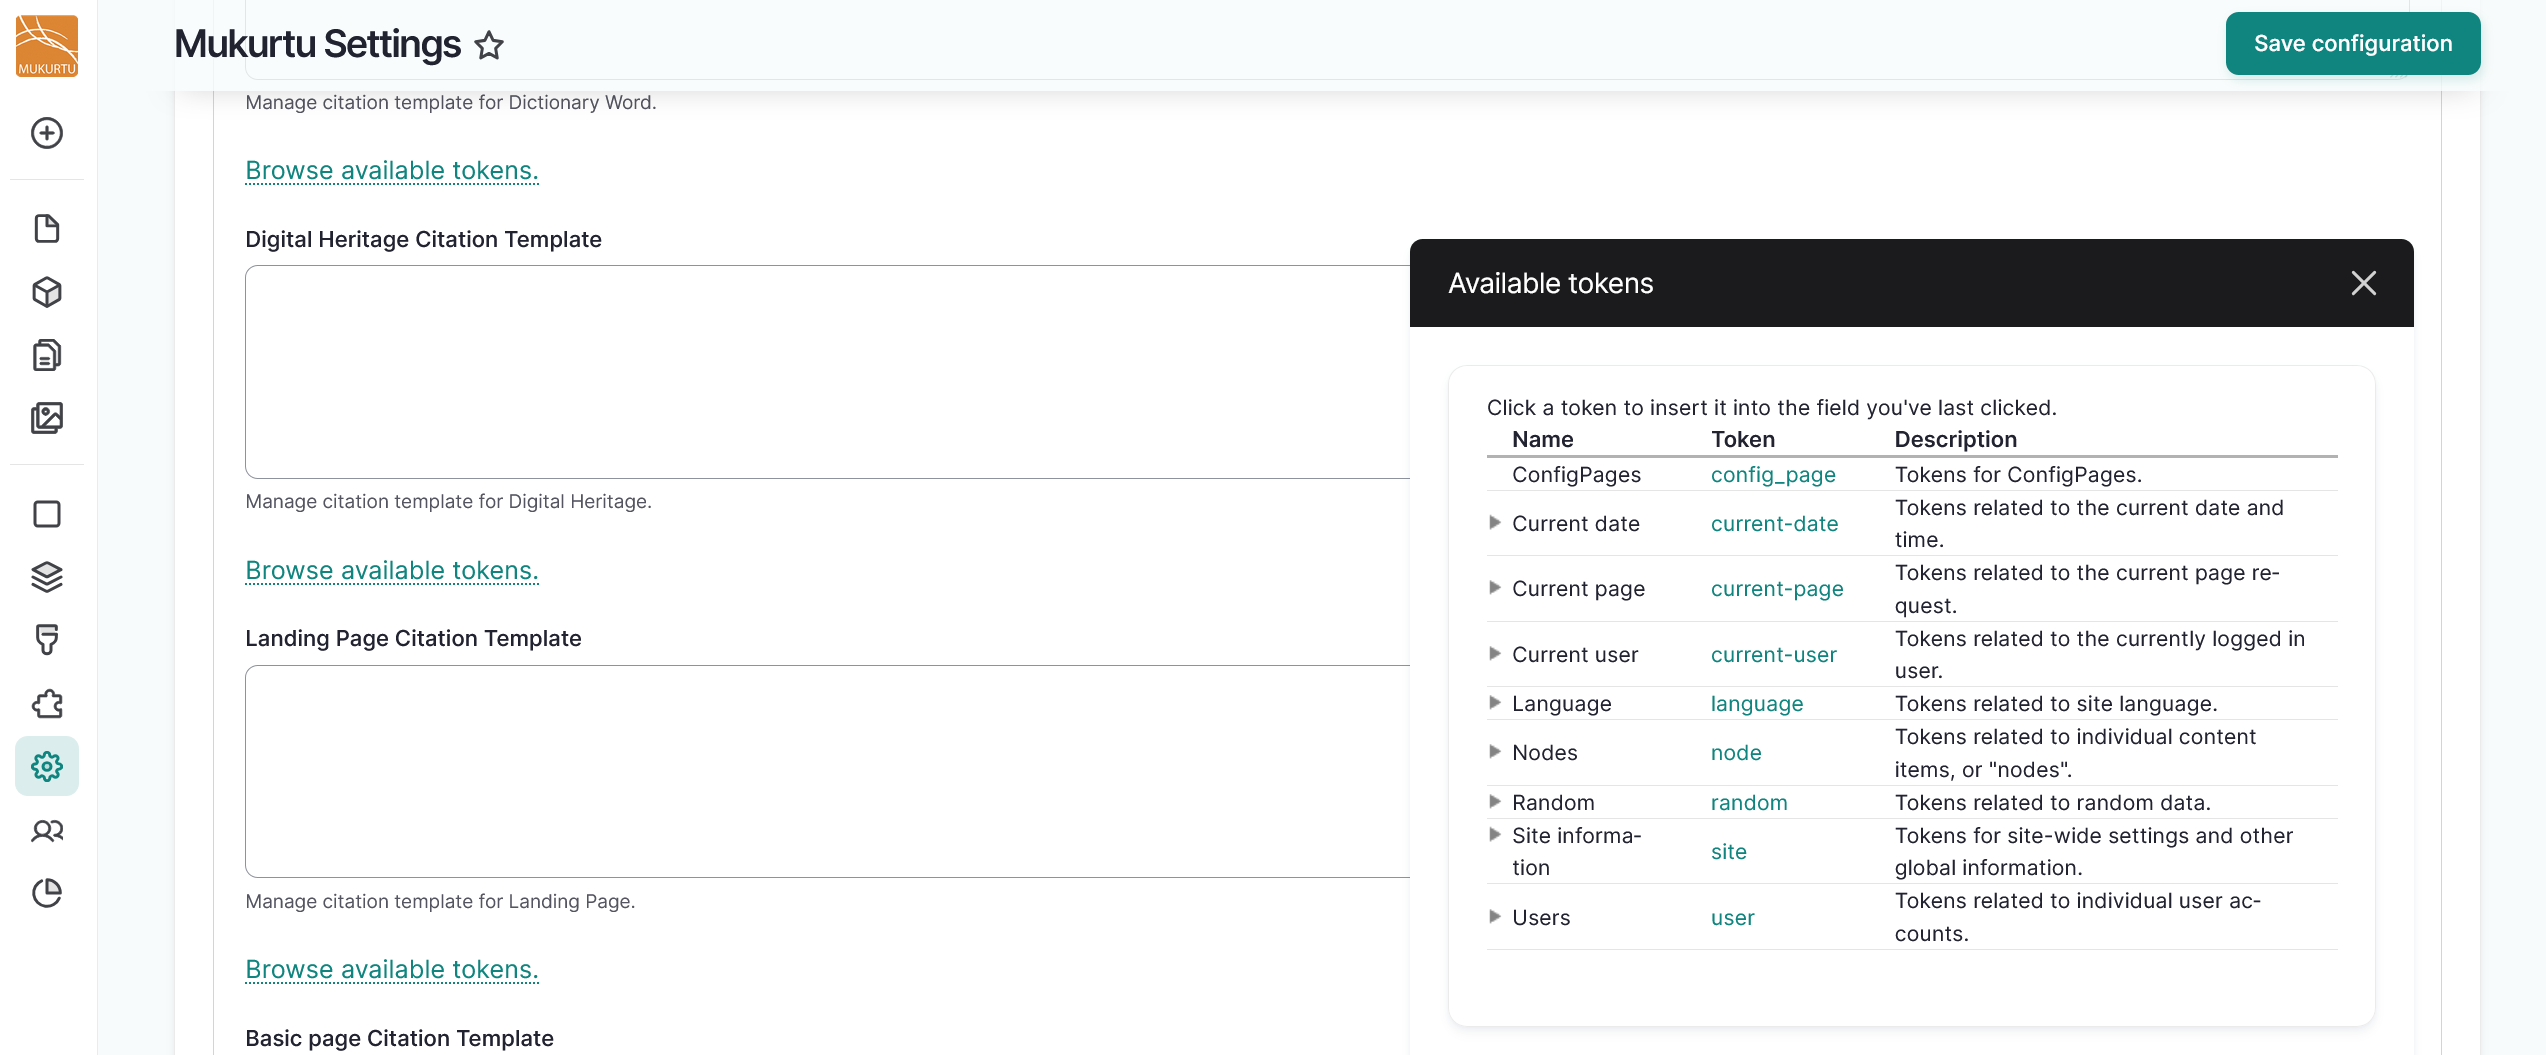
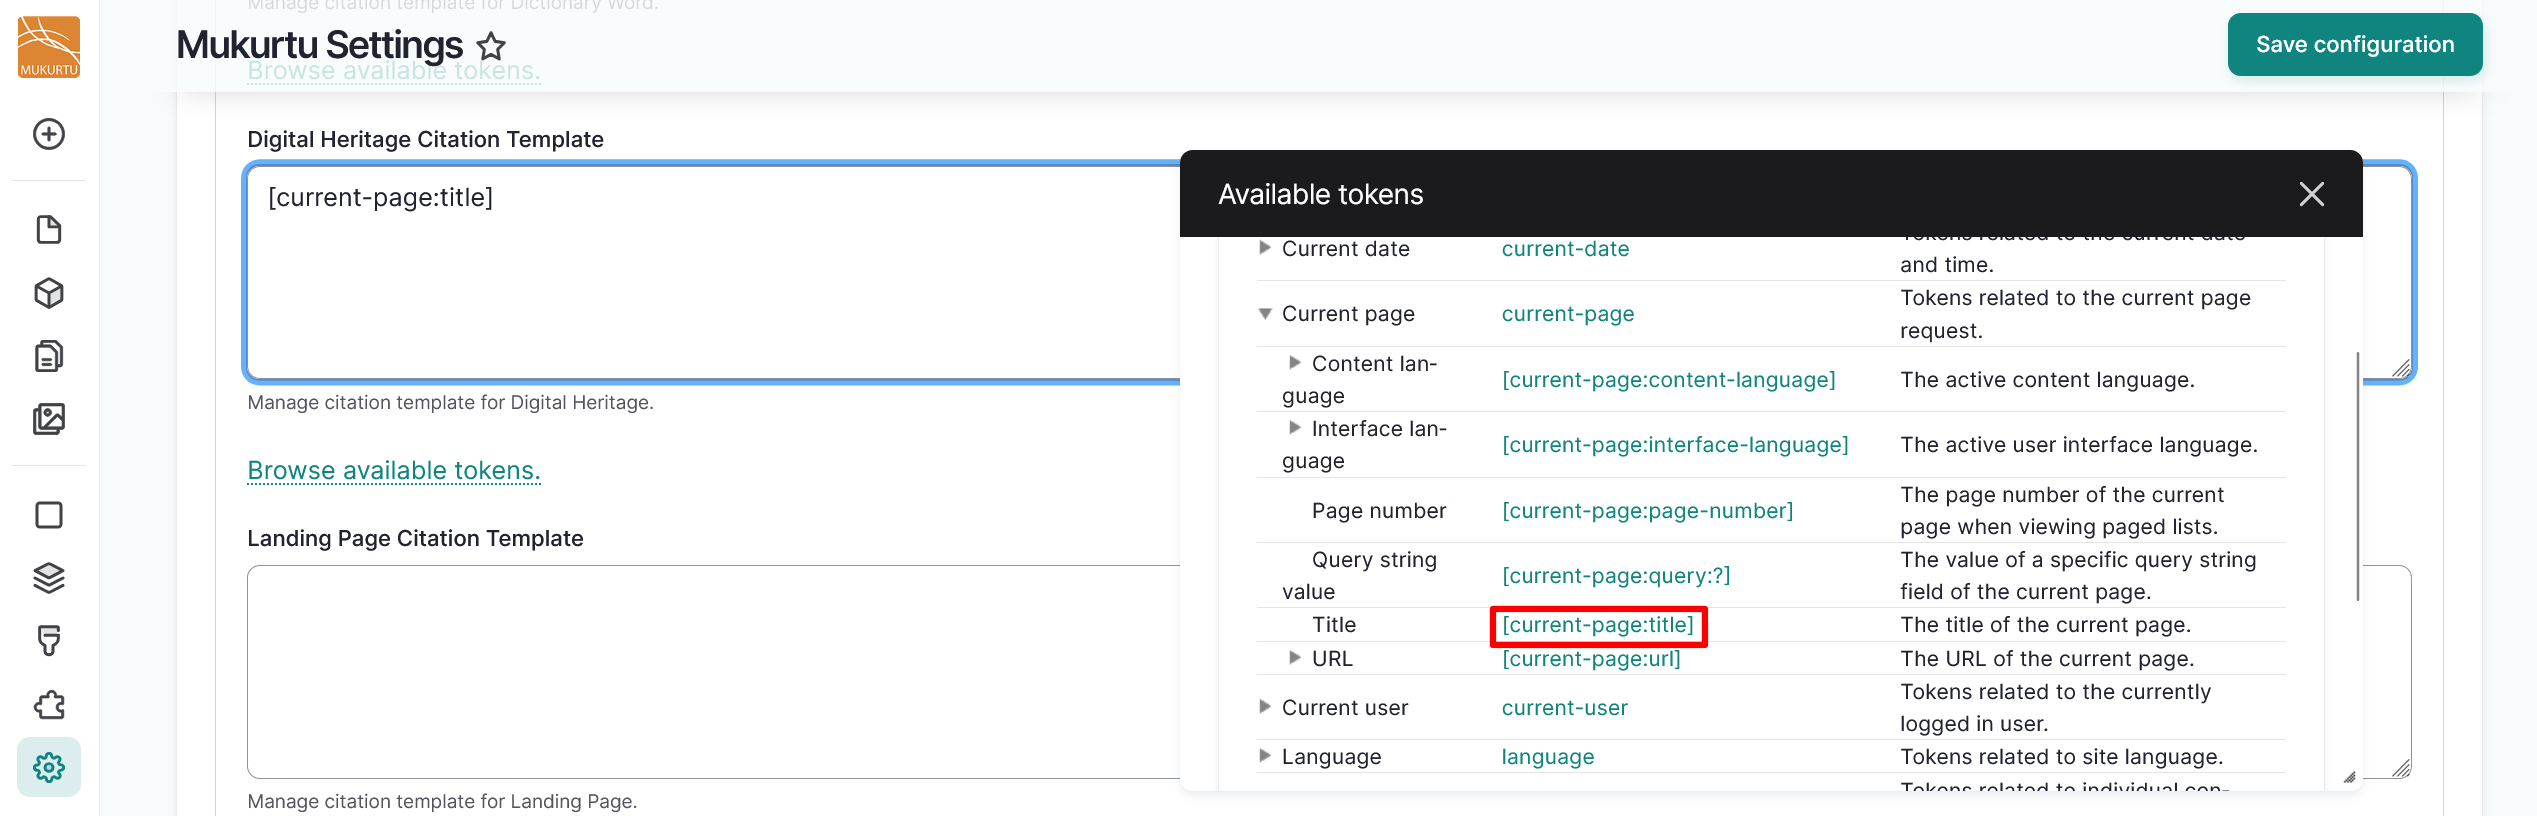
Citation article - in progress

diff --git a/docs/site-settings/ConfigureCitationTemplates.md b/docs/site-settings/ConfigureCitationTemplates.md
@@ -9,41 +9,49 @@ tags:
 !!! Roles "User roles" 
     Drupal administrator, Mukurtu manager
 
-Mukurtu CMS allows you to configure the citation field templates for all content types using tokens. Tokens act as in-text placeholders with contextual values that allow the content to auto-generate a specific citation. To start configuring your citation templates, navigate to the **Site settings** section of the Dashboard and select the **Citation formats and default image** link, or go directly to `/admin/config/mukurtu/settings`.
+You can include recommended citation templates for your content in Mukurtu CMS to appear on content pages. To start configuring your citation templates, navigate to the **Site settings** section of the Dashboard and select the **Citation formats and default image** link, or go directly to `/admin/config/mukurtu/settings`.
+
+## Sample citation formats
+
+Included below are some common citation formats that you can use for your content. You can also create your own citation format or modify these so that they are appropriate for the content on your site. The citation formats that we are using as examples are:
+
+- APA: [APA Formatting and Style Guide (7th Edition) from Purdue OWL](https://owl.purdue.edu/owl/research_and_citation/apa_style/apa_formatting_and_style_guide/in_text_citations_the_basics.html)
+- Chicago: [The Chicago Manual of Style Online](https://www.chicagomanualofstyle.org/home.html)
+- MLA: [MLA General Formatting and Style Guide from Purdue OWL](https://owl.purdue.edu/owl/research_and_citation/mla_style/mla_formatting_and_style_guide/mla_general_format.html)
+
+## Digital Heritage items
+
+- APA: `Creator's name. Title. Date published/original date. Website name, URL.`
+- Chicago:
+- MLA:
+
+## Configuring templates with tokens
+
+Mukurtu CMS allows you to configure the citation field templates for all content types using tokens. Tokens act as in-text placeholders with contextual values that allow the content to auto-generate a specific citation. 
+
+!!! tip
+    Tokens are only available for Drupal fields. 
 
 1. Navigate to the **Citation Field Templates** section of the page and select the dropdown to open the section.
 
     ![The Mukurtu Settings page with the Citation Field Templates dropdown section highlighted.](../_embeds/citation1.png)
 
-2. We are going to use the Digital Heritage Citation Template as an example, using the sample format `"[Title]". [Creator]. [Site name]. Accessed [Current Date], [URL].`.
-
-3. Select the **Browse available tokens** to browse pre-set tokens.
+2. Under any citation template field, select the **Browse available tokens** to browse pre-set tokens.
 
     ![Screenshot of the Browse available tokens modal link highlighted.](../_embeds/citation2.png)
     
-    !!! tip
-        Tokens are only available for Drupal fields. 
+    !!! warning
+        When adding tokens to your site, use the `current-site` or `current-date` tokens. Use of the `node` tokens has the ability to break your site. 
 
-4. To enter your `Title` token, select the `[node:title]` preset token or enter `"[node:title]".` in the text field.
+3. Select the pre-set tokens you wish to include in your citation. These can include tokens referencing title, date, URL, or other fields.
 
-    ![Screenshot of the title token with the node:title button highlighted on the modal and in the text field.](../_embeds/citation5.png)
+    ![Screenshot of the Browse tokens modal with the current-site:title option highlighted.](../_embeds/citation3.png)
 
-5. *Creator* is a Mukurtu-specific field and does not have an associated token. Enter `[Creator].` to indicate that users who wish to cite your digital heritage item should enter the name of the creator. If your community has a preferred naming format, you can specify that.
-
-    ![Screenshot of the citation field with the [Creator] field included.](../_embeds/citation6.png)
-
-6. Select the `[site:name]` token from the preset tokens, or enter `[site:name]` in the text field.
-7. Any symbols or text outside of the token brackets will appear as part of your citation. If your citation style includes punctuation or terms such as `Accessed`, you can enter them normally. 
-
-    ![Screenshot of the citation field with the additional symbols and text highlighted.](../_embeds/citation7.png)
-
-8. Select the `[current-date:medium]` token from the preset tokens, or enter `[current-date:medium],` in the text field.
-9. Select the `[node:url]` token from the preset tokens, or enter `[node:url].` in the text field.
-10. Select the "Save Configuration" button to save your citation template.
+4. Select the "Save Configuration" button to save your citation template.
 
     ![Screenshot of the citation field page with the save configuration button highlighted.](../_embeds/citation9.png)
 
-11. When users browse your site's digital heritage items, the Citation field will populate with the citation template, including the auto-generated title, site name, current date, and URL. 
+5. When users browse your site's digital heritage items, the Citation field will populate with the citation template, including the auto-generated metadata from the tokens. 
 
     ![Screenshot of the citation field on a digital heritage item.](../_embeds/citation8.png)
 
